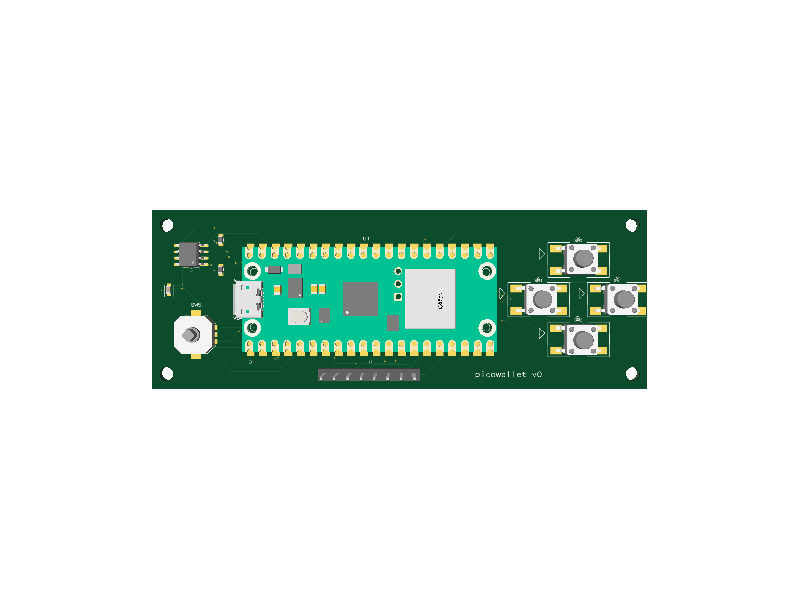
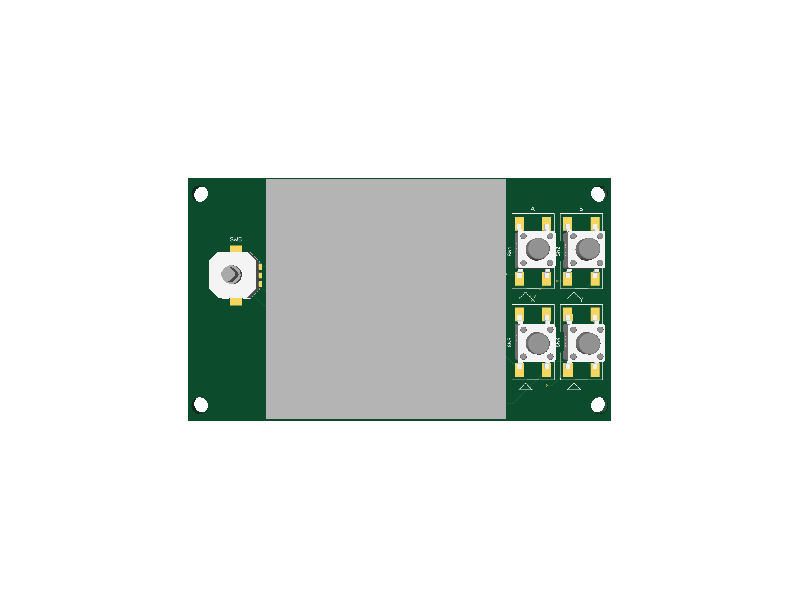
pcb/v0: Pico on the back with USB at the edge, screen module drawn on the front, joystick left, ABXY right; 70x40mm

Changed region(s): [[0.1875, 0.27, 0.8125, 0.72]]

diff --git a/pcb/v0/imports/N114_2413THBIG01_H13.tsx b/pcb/v0/imports/N114_2413THBIG01_H13.tsx
@@ -1,0 +1,71 @@
+import type { ChipProps } from "@tscircuit/props"
+
+const pinLabels = {
+  pin1: ["NC1"],
+  pin2: ["NC2"],
+  pin3: ["SDA"],
+  pin4: ["SCL"],
+  pin5: ["RS"],
+  pin6: ["RES"],
+  pin7: ["CS"],
+  pin8: ["GND1"],
+  pin9: ["NC3"],
+  pin10: ["VCC"],
+  pin11: ["LEDK"],
+  pin12: ["LEDA"],
+  pin13: ["GND2"]
+} as const
+
+const pinAttributes = {
+  pin1: {doNotConnect: true},
+  pin2: {doNotConnect: true},
+  pin8: {requiresGround: true},
+  pin9: {doNotConnect: true},
+  pin10: {requiresPower: true},
+  pin13: {requiresGround: true}
+} as const
+
+export const N114_2413THBIG01_H13 = (props: ChipProps<typeof pinLabels>) => {
+  return (
+    <chip
+      pinLabels={pinLabels}
+      pinAttributes={pinAttributes}
+      supplierPartNumbers={{
+  "jlcpcb": [
+    "C2890618"
+  ]
+}}
+      manufacturerPartNumber="N114-2413THBIG01-H13"
+      footprint={<footprint>
+        <smtpad portHints={["pin1"]} pcbX="4.384421mm" pcbY="-0.700024mm" width="0.499999mm" height="2.5999948mm" shape="rect" />
+<smtpad portHints={["pin2"]} pcbX="3.684397mm" pcbY="-0.700024mm" width="0.499999mm" height="2.5999948mm" shape="rect" />
+<smtpad portHints={["pin3"]} pcbX="2.984373mm" pcbY="-0.700024mm" width="0.499999mm" height="2.5999948mm" shape="rect" />
+<smtpad portHints={["pin4"]} pcbX="2.284349mm" pcbY="-0.700024mm" width="0.499999mm" height="2.5999948mm" shape="rect" />
+<smtpad portHints={["pin5"]} pcbX="1.584325mm" pcbY="-0.700024mm" width="0.499999mm" height="2.5999948mm" shape="rect" />
+<smtpad portHints={["pin6"]} pcbX="0.884301mm" pcbY="-0.700024mm" width="0.499999mm" height="2.5999948mm" shape="rect" />
+<smtpad portHints={["pin7"]} pcbX="0.184531mm" pcbY="-0.700024mm" width="0.499999mm" height="2.5999948mm" shape="rect" />
+<smtpad portHints={["pin8"]} pcbX="-0.515493mm" pcbY="-0.700024mm" width="0.499999mm" height="2.5999948mm" shape="rect" />
+<smtpad portHints={["pin9"]} pcbX="-1.215517mm" pcbY="-0.700024mm" width="0.499999mm" height="2.5999948mm" shape="rect" />
+<smtpad portHints={["pin10"]} pcbX="-1.915541mm" pcbY="-0.700024mm" width="0.499999mm" height="2.5999948mm" shape="rect" />
+<smtpad portHints={["pin11"]} pcbX="-2.615565mm" pcbY="-0.700024mm" width="0.499999mm" height="2.5999948mm" shape="rect" />
+<smtpad portHints={["pin12"]} pcbX="-3.315589mm" pcbY="-0.700024mm" width="0.499999mm" height="2.5999948mm" shape="rect" />
+<smtpad portHints={["pin13"]} pcbX="-4.015613mm" pcbY="-0.700024mm" width="0.499999mm" height="2.5999948mm" shape="rect" />
+<silkscreenpath route={[{"x":-4.635119000000145,"y":0.20065999999997075},{"x":-4.635119000000145,"y":-12.598400000000083},{"x":1.85966099999996,"y":-12.598400000000083},{"x":2.68516099999988,"y":-12.598400000000083},{"x":5.034660999999915,"y":-6.901180000000068},{"x":5.054980999999884,"y":0.20065999999997075},{"x":4.864480999999955,"y":0.20065999999997075}]} />
+<silkscreenpath route={[{"x":-4.635119000000145,"y":-12.590018000000214},{"x":-4.635119000000145,"y":-15.590748600000097}]} />
+<silkscreenpath route={[{"x":2.1348191999998107,"y":-12.600000200000181},{"x":2.1348191999998107,"y":-15.600730800000179}]} />
+<silkscreenrect pcbX="0mm" pcbY="0mm" width="17.69999mm" height="31.199836mm" strokeWidth="0.254mm" />
+<silkscreentext text="{NAME}" pcbX="0.010541mm" pcbY="16.64132mm" anchorAlignment="center" fontSize="1mm" />
+<fabricationnotepath route={[{"x":8.573007999999959,"y":-15.34596880000015},{"x":8.573007999999959,"y":15.399969199999873},{"x":-8.572957200000133,"y":15.399969199999873},{"x":-8.572957200000133,"y":-15.34596880000015},{"x":-8.699957200000085,"y":-15.59996880000017},{"x":-8.789759761210803,"y":-15.562771361210821},{"x":-8.826957200000152,"y":-15.472968800000103},{"x":-8.826957200000152,"y":15.52696919999994},{"x":-8.789759761210803,"y":15.616771761210543},{"x":-8.699957200000085,"y":15.653969199999892},{"x":8.700007999999912,"y":15.653969199999892},{"x":8.78981056121063,"y":15.616771761210543},{"x":8.827007999999864,"y":15.52696919999994},{"x":8.827007999999864,"y":-15.472968800000103},{"x":8.78981056121063,"y":-15.562771361210821},{"x":8.700007999999912,"y":-15.59996880000017},{"x":8.573007999999959,"y":-15.34596880000015}]} strokeWidth="0.254mm" />
+<fabricationnotepath route={[{"x":5.144947799999841,"y":-15.343022400000109},{"x":8.674938199999929,"y":-15.343022400000109},{"x":8.547938199999862,"y":-15.470022400000062},{"x":8.674938199999929,"y":-15.597022400000128},{"x":5.144947799999841,"y":-15.597022400000128},{"x":5.2719477999997935,"y":-15.470022400000062},{"x":5.144947799999841,"y":-15.343022400000109}]} strokeWidth="0.254mm" />
+<fabricationnotepath route={[{"x":-8.705545200000302,"y":-15.332989400000088},{"x":-5.266385200000059,"y":-15.32282940000016},{"x":-5.265623200000164,"y":-15.576829400000179},{"x":-8.704783200000179,"y":-15.586989400000107},{"x":-8.705545200000302,"y":-15.332989400000088}]} strokeWidth="0.254mm" />
+<fabricationnotepath route={[{"x":2.1547861399998283,"y":-15.596997000000101},{"x":2.1061926380306204,"y":-15.587333060849915},{"x":2.0649945999999773,"y":-15.559811399999944},{"x":2.034997199999907,"y":-15.529814000000101},{"x":2.0074629520192957,"y":-15.48860688984007},{"x":1.9977938199997425,"y":-15.439999600000078},{"x":5.124805599999831,"y":-15.342997000000082},{"x":5.214608161210549,"y":-15.380194438789431},{"x":5.251805599999898,"y":-15.469997000000035},{"x":2.1547861399998283,"y":-15.596997000000101}]} strokeWidth="0.254mm" />
+<fabricationnotepath route={[{"x":-4.5081190000001925,"y":0.20065999999997075},{"x":-4.5081190000001925,"y":-12.47140000000013},{"x":1.85966099999996,"y":-12.47140000000013},{"x":2.6001471999998103,"y":-12.47140000000013},{"x":4.907737199999815,"y":-6.8758562000001575},{"x":4.927625399999897,"y":0.07366000000001804},{"x":4.8644809999998415,"y":0.07366000000001804},{"x":4.991480999999794,"y":0.20065999999997075},{"x":4.8644809999998415,"y":0.32765999999992346},{"x":5.054980999999771,"y":0.32765999999992346},{"x":5.144909518987106,"y":0.2903369257550139},{"x":5.181980999999837,"y":0.20030439999993632},{"x":5.161660999999867,"y":-6.901535600000102},{"x":5.159200391781951,"y":-6.926031503643685},{"x":5.152059799999847,"y":-6.949592400000142},{"x":2.8025597999998126,"y":-12.646812400000044},{"x":2.755796271282634,"y":-12.703936709718619},{"x":2.68516099999988,"y":-12.72540000000015},{"x":1.85966099999996,"y":-12.72540000000015},{"x":-4.635119000000259,"y":-12.72540000000015},{"x":-4.724921561210863,"y":-12.688202561210801},{"x":-4.762119000000212,"y":-12.598400000000197},{"x":-4.762119000000212,"y":0.20065999999997075},{"x":-4.635119000000259,"y":0.07366000000001804},{"x":-4.5081190000001925,"y":0.20065999999997075}]} strokeWidth="0.254mm" />
+<fabricationnotepath route={[{"x":2.261819199999877,"y":-12.599974800000155},{"x":2.261819199999877,"y":-15.600730800000065},{"x":2.1348191999999244,"y":-15.473730800000112},{"x":2.007819199999858,"y":-15.600730800000065},{"x":2.007819199999858,"y":-12.599974800000155},{"x":2.1348191999999244,"y":-12.726974800000107},{"x":2.261819199999877,"y":-12.599974800000155}]} strokeWidth="0.254mm" />
+<fabricationnotepath route={[{"x":-4.5081190000001925,"y":-12.589992600000073},{"x":-4.5081190000001925,"y":-15.590748599999984},{"x":-4.635119000000259,"y":-15.46374860000003},{"x":-4.762119000000212,"y":-15.590748599999984},{"x":-4.762119000000212,"y":-12.589992600000073},{"x":-4.635119000000259,"y":-12.71699260000014},{"x":-4.5081190000001925,"y":-12.589992600000073}]} strokeWidth="0.254mm" />
+<courtyardoutline outline={[{"x":-9.091359000000125,"y":15.89131999999995},{"x":9.112440999999876,"y":15.89131999999995},{"x":9.112440999999876,"y":-16.003080000000068},{"x":-9.091359000000125,"y":-16.003080000000068},{"x":-9.091359000000125,"y":15.89131999999995}]} />
+      </footprint>}
+      
+      {...props}
+    />
+  )
+}

diff --git a/pcb/v0/index.circuit.tsx b/pcb/v0/index.circuit.tsx
@@ -4,8 +4,8 @@ import { ATECC608B_SSHDA_T } from "./imports/ATECC608B_SSHDA_T"
 import { KH_6X6X5H_STM } from "./imports/KH_6X6X5H_STM"
 import { SKRHABE010 } from "./imports/SKRHABE010"
 
-// picowallet one-board v0. Pins match firmware/lcd.py + firmware/atecc.py.
-// Pico pin numbers: GPn -> see imports/Raspberry_Pi_Pico_2W.tsx (pin1=GP0 ... pin40=VBUS).
+// picowallet one-board v0. Front: screen, joystick, A/B/X/Y. Back: Pico 2 W (USB at the
+// left edge), ATECC608B. Pins match firmware/lcd.py + firmware/atecc.py.
 const GP: Record<number, string> = {
   2: "pin4", 3: "pin5", 4: "pin6", 5: "pin7", 8: "pin11", 9: "pin12", 10: "pin14", 11: "pin15",
   12: "pin16", 13: "pin17", 15: "pin20", 16: "pin21", 17: "pin22", 18: "pin24", 19: "pin25",
@@ -14,30 +14,31 @@ const GP: Record<number, string> = {
 const pico = (gp: number) => `U1.${GP[gp]}`
 
 export default () => (
-  <board width="100mm" height="36mm">
-    {/* Pico 2 W module, soldered flat. Header row pads face up/down. */}
-    <Raspberry_Pi_Pico_2W name="U1" pcbX={-6} pcbY={0} />
+  <board width="70mm" height="40mm">
+    {/* BACK: Pico 2 W module, castellated pads, USB pokes out the left edge */}
+    <Raspberry_Pi_Pico_2W name="U1" layer="bottom" pcbX={-9} pcbY={0} pcbRotation={180} />
     <trace from="U1.pin38" to="net.GND" />
     <trace from="U1.pin3" to="net.GND" />
     <trace from="U1.pin36" to="net.V3_3" />
 
-    {/* 1.3" ST7789 module plugs in here, sits above the Pico */}
-    <pinheader name="J1" pinCount={8} pitch="2.54mm" pcbX={-6} pcbY={-15}
-      pinLabels={["GND", "VCC", "SCL", "SDA", "RES", "DC", "CS", "BLK"]} />
-    <trace from="J1.pin1" to="net.GND" />
-    <trace from="J1.pin2" to="net.V3_3" />
-    <trace from="J1.pin3" to={pico(10)} />
-    <trace from="J1.pin4" to={pico(11)} />
-    <trace from="J1.pin5" to={pico(12)} />
-    <trace from="J1.pin6" to={pico(8)} />
-    <trace from="J1.pin7" to={pico(9)} />
-    <trace from="J1.pin8" to={pico(13)} />
+    {/* FRONT: 1.3" ST7789 240x240 module on an 8-pin header, glass drawn as a box */}
+    <chip name="DISP1" footprint="pinrow8_p2.54mm" pcbX={-2} pcbY={-16}
+      pinLabels={{ pin1: "GND", pin2: "VCC", pin3: "SCL", pin4: "SDA", pin5: "RES", pin6: "DC", pin7: "CS", pin8: "BLK" }}
+      cadModel={{ jscad: { type: "cuboid", size: [36, 36, 3.5] }, positionOffset: { x: 0, y: 16, z: 8 } }} />
+    <trace from="DISP1.GND" to="net.GND" />
+    <trace from="DISP1.VCC" to="net.V3_3" />
+    <trace from="DISP1.SCL" to={pico(10)} />
+    <trace from="DISP1.SDA" to={pico(11)} />
+    <trace from="DISP1.RES" to={pico(12)} />
+    <trace from="DISP1.DC" to={pico(8)} />
+    <trace from="DISP1.CS" to={pico(9)} />
+    <trace from="DISP1.BLK" to={pico(13)} />
 
-    {/* secure element */}
-    <ATECC608B_SSHDA_T name="U2" pcbX={-42} pcbY={9} pcbRotation={90} />
-    <resistor name="R1" resistance="4.7k" footprint="0603" pcbX={-36} pcbY={12} pcbRotation={90} />
-    <resistor name="R2" resistance="4.7k" footprint="0603" pcbX={-36} pcbY={6} pcbRotation={90} />
-    <capacitor name="C1" capacitance="100nF" footprint="0603" pcbX={-46.5} pcbY={2} pcbRotation={90} />
+    {/* BACK: secure element, right end, clear of the Pico */}
+    <ATECC608B_SSHDA_T name="U2" layer="bottom" pcbX={26} pcbY={4} />
+    <resistor name="R1" resistance="4.7k" footprint="0603" layer="bottom" pcbX={22} pcbY={-6} />
+    <resistor name="R2" resistance="4.7k" footprint="0603" layer="bottom" pcbX={28} pcbY={-6} />
+    <capacitor name="C1" capacitance="100nF" footprint="0603" layer="bottom" pcbX={26} pcbY={11} />
     <trace from="U2.VCC" to="net.V3_3" />
     <trace from="U2.GND" to="net.GND" />
     <trace from="U2.SDA" to="net.SDA" />
@@ -51,8 +52,8 @@ export default () => (
     <trace from={pico(4)} to="net.SDA" />
     <trace from={pico(5)} to="net.SCL" />
 
-    {/* joystick: up GP2, down GP18, left GP16, right GP20, press GP3 (A/B/C/D mapping to confirm on datasheet) */}
-    <SKRHABE010 name="SW5" pcbX={-41} pcbY={-7} />
+    {/* FRONT: joystick left of the screen */}
+    <SKRHABE010 name="SW5" pcbX={-27} pcbY={4} />
     <trace from="SW5.COM" to="net.GND" />
     <trace from="SW5.A" to={pico(2)} />
     <trace from="SW5.B" to={pico(18)} />
@@ -60,25 +61,25 @@ export default () => (
     <trace from="SW5.D" to={pico(20)} />
     <trace from="SW5.CEN" to={pico(3)} />
 
-    {/* A/B/X/Y diamond on the right */}
+    {/* FRONT: A/B/X/Y diamond right of the screen */}
     {[
-      { ref: "SW1", lbl: "A", gp: 15, x: 28, y: 0 },
-      { ref: "SW2", lbl: "B", gp: 17, x: 36, y: -8 },
-      { ref: "SW3", lbl: "X", gp: 19, x: 36, y: 8 },
-      { ref: "SW4", lbl: "Y", gp: 21, x: 44, y: 0 },
+      { ref: "SW1", lbl: "A", gp: 15, x: 22, y: 8 },
+      { ref: "SW2", lbl: "B", gp: 17, x: 30, y: 8 },
+      { ref: "SW3", lbl: "X", gp: 19, x: 22, y: -7 },
+      { ref: "SW4", lbl: "Y", gp: 21, x: 30, y: -7 },
     ].map(({ ref, lbl, gp, x, y }) => (
       <Fragment key={ref}>
-        <KH_6X6X5H_STM name={ref} pcbX={x} pcbY={y} />
-        <silkscreentext text={lbl} pcbX={x} pcbY={y + 4.2} fontSize={1.2} />
+        <KH_6X6X5H_STM name={ref} pcbX={x} pcbY={y} pcbRotation={90} />
+        <silkscreentext text={lbl} pcbX={x} pcbY={y + 7} fontSize={1} />
         <trace from={`${ref}.pin1`} to={pico(gp)} />
         <trace from={`${ref}.pin2`} to="net.GND" />
       </Fragment>
     ))}
 
-    <hole pcbX={-47} pcbY={-15} diameter="2.7mm" />
-    <hole pcbX={-47} pcbY={15} diameter="2.7mm" />
-    <hole pcbX={47} pcbY={15} diameter="2.7mm" />
-    <hole pcbX={47} pcbY={-15} diameter="2.7mm" />
-    <silkscreentext text="picowallet v0" pcbX={22} pcbY={-15} fontSize={1.5} />
+    <hole pcbX={-33} pcbY={17.5} diameter="2.7mm" />
+    <hole pcbX={33} pcbY={17.5} diameter="2.7mm" />
+    <hole pcbX={33} pcbY={-17.5} diameter="2.7mm" />
+    <hole pcbX={-33} pcbY={-17.5} diameter="2.7mm" />
+    <silkscreentext text="picowallet v0" pcbX={0} pcbY={-18.5} fontSize={1.3} />
   </board>
 )

diff --git a/pcb/v0/imports/HS20HS072RX.tsx b/pcb/v0/imports/HS20HS072RX.tsx
@@ -1,0 +1,27 @@
+import type { ChipProps } from "@tscircuit/props"
+
+const pinLabels = {
+  pin1: ["GND"]
+} as const
+
+const pinAttributes = {
+  pin1: {requiresGround: true}
+} as const
+
+export const HS20HS072RX = (props: ChipProps<typeof pinLabels>) => {
+  return (
+    <chip
+      pinLabels={pinLabels}
+      pinAttributes={pinAttributes}
+      supplierPartNumbers={{
+  "jlcpcb": [
+    "C5329582"
+  ]
+}}
+      manufacturerPartNumber="HS20HS072RX"
+      footprint="solderjumper1_pw1.52mm_ph1.52mm"
+      
+      {...props}
+    />
+  )
+}
